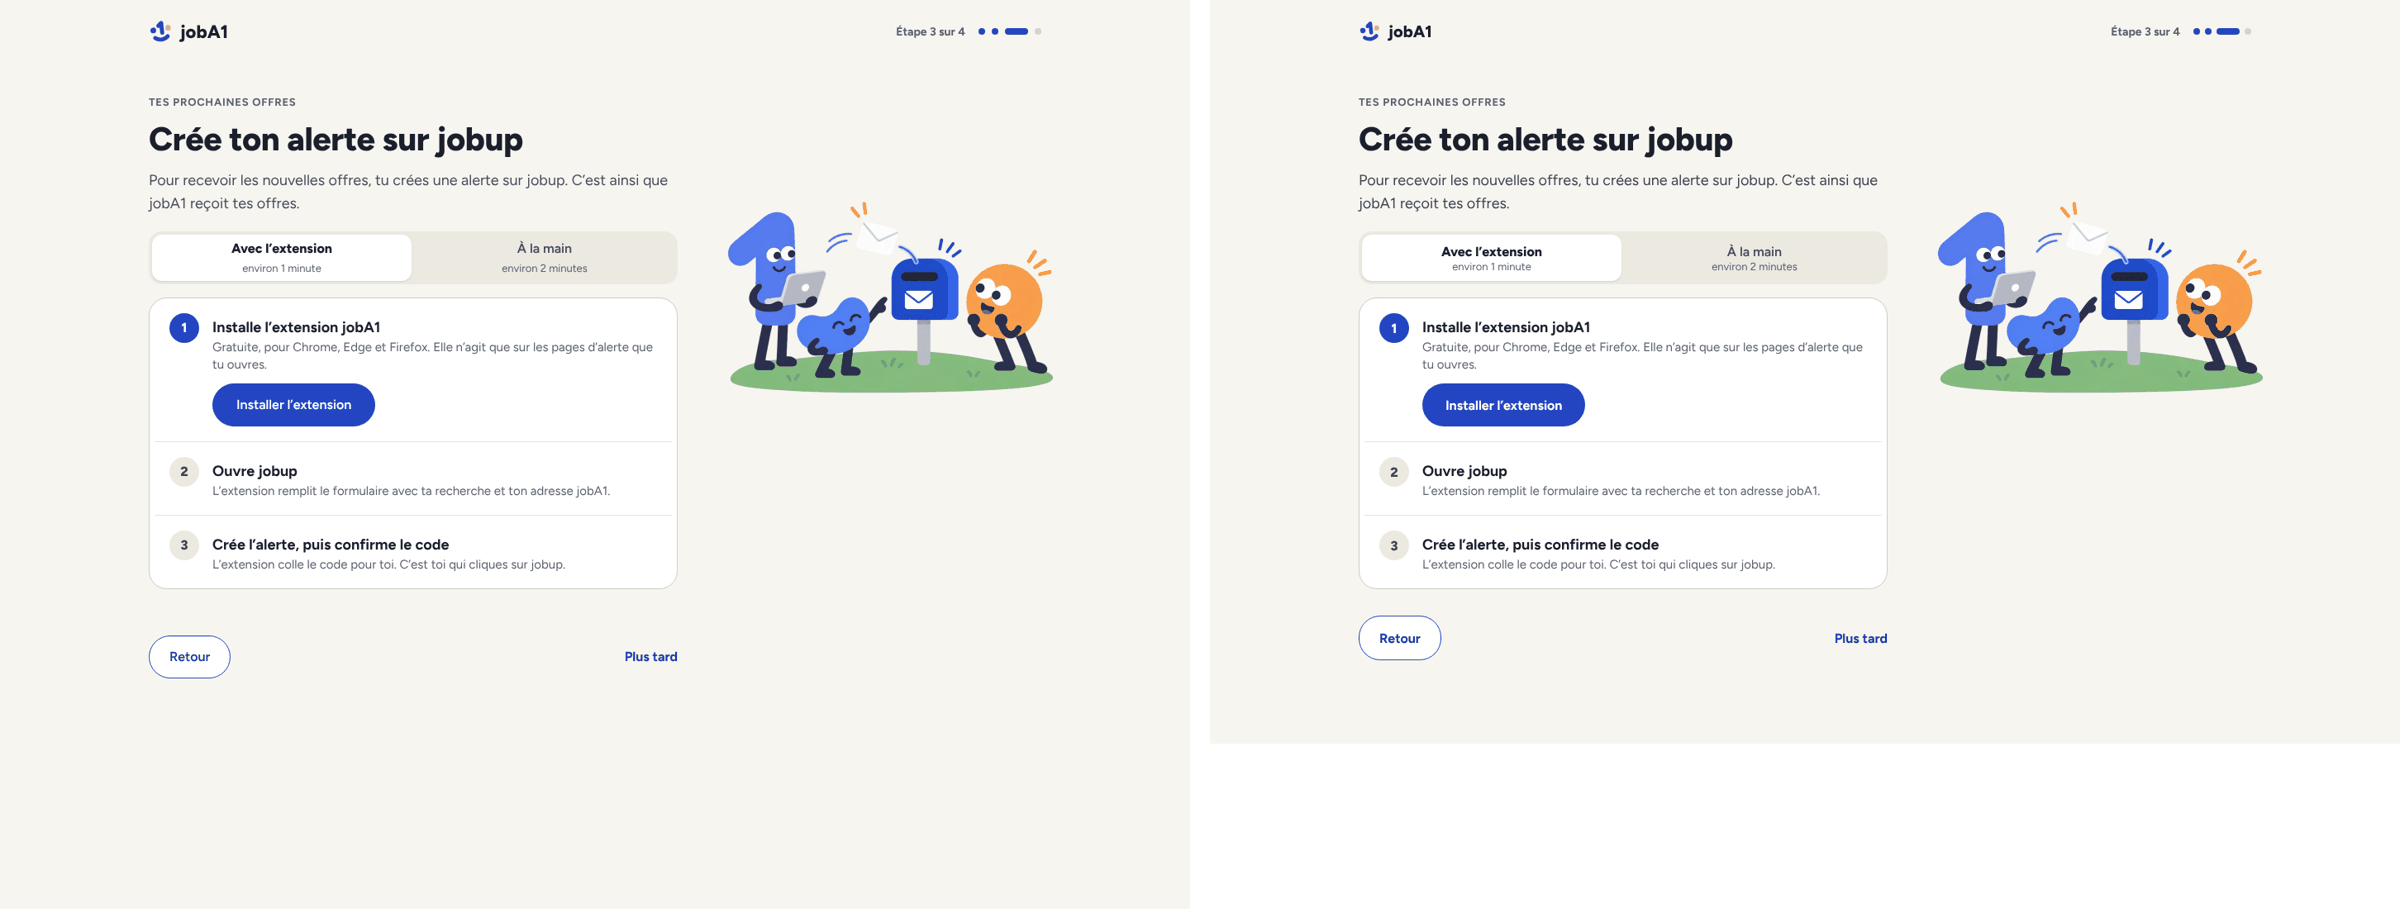
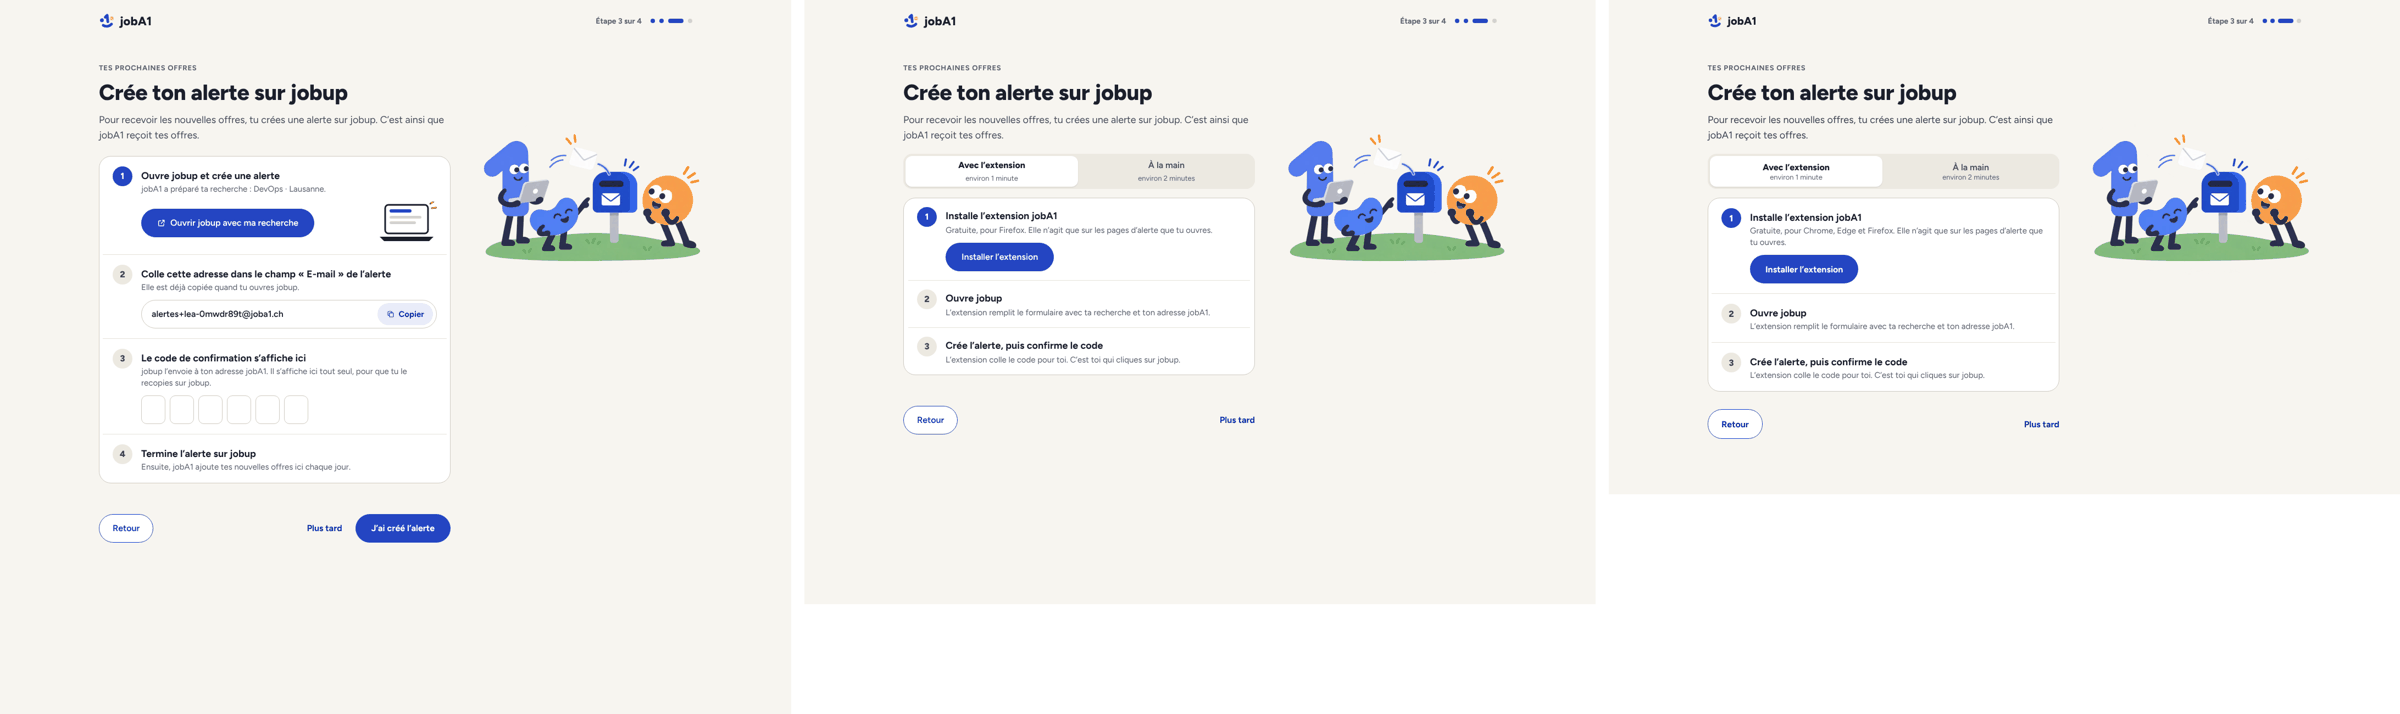
Premiers pas, étape 3 : le choix extension ou à la main seulement sur Firefox (Kevin, 16.11)
« Gratuite, pour Firefox. » ; ailleurs, le parcours à la main seul, sauf si l'extension est détectée.

Claude-Session: https://claude.ai/code/session_014TQZXHcJqs6Y5WLrepDCTo

diff --git a/frontend/src/views/WelcomeView.test.ts b/frontend/src/views/WelcomeView.test.ts
@@ -620,7 +620,17 @@ describe("premiers pas sur ordinateur (MODIFICATIONS_9 §5, OnboardingOrdinateur
     expect(wrapper.get("[data-test=welcome-eyebrow]").text()).toBe("Étape 2 sur 4");
   });
 
-  it("section 42 : « Avec l’extension / À la main », à la main par défaut sans extension ; chaque parcours garde son avancée", async () => {
+  it("section 42 : hors Firefox et sans extension, pas de choix, le parcours à la main seul (Kevin, 16.11, 23 h 29)", async () => {
+    const { wrapper } = await mountWelcome({ status: "pending", step: 3, goal: null, trade: null }, { offers: [OFFER] });
+    await click(wrapper, "welcome-criteria");
+    expect(wrapper.find("[data-test=welcome-alert-via]").exists()).toBe(false);
+    expect(wrapper.get("[data-test=welcome-alert]").isVisible()).toBe(true);
+    expect(wrapper.get("[data-test=welcome-alert-extension]").isVisible()).toBe(false);
+    expect(wrapper.find("[data-test=welcome-alert-done]").exists()).toBe(true);
+  });
+
+  it("section 42 : sur Firefox, « Avec l’extension / À la main », à la main par défaut sans extension ; chaque parcours garde son avancée", async () => {
+    const ua = vi.spyOn(navigator, "userAgent", "get").mockReturnValue("Mozilla/5.0 (X11; Linux x86_64; rv:133.0) Gecko/20100101 Firefox/133.0");
     const { wrapper } = await mountWelcome({ status: "pending", step: 3, goal: null, trade: null }, { offers: [OFFER] });
     await click(wrapper, "welcome-criteria");
     const group = wrapper.get("[data-test=welcome-alert-via]");
@@ -641,9 +651,10 @@ describe("premiers pas sur ordinateur (MODIFICATIONS_9 §5, OnboardingOrdinateur
     expect(wrapper.get("[data-test=welcome-alert-via-main]").attributes("aria-checked")).toBe("true");
     // Le parcours à la main a gardé son avancée : jobup ouvert, l'étape 3 en cours.
     expect(wrapper.get("[data-test=welcome-alert-step-3]").attributes("aria-current")).toBe("step");
+    ua.mockRestore();
   });
 
-  it("section 42 : l’extension détectée est choisie par défaut ; à « created », la page passe aux offres toute seule", async () => {
+  it("section 42 : l’extension détectée (quel que soit le navigateur) est choisie par défaut ; à « created », la page passe aux offres toute seule", async () => {
     document.documentElement.dataset.joba1Extension = "0.64.0";
     try {
       const { wrapper } = await mountWelcome({ status: "pending", step: 3, goal: null, trade: null }, { offers: [OFFER] });

diff --git a/frontend/src/views/WelcomeView.vue b/frontend/src/views/WelcomeView.vue
@@ -141,8 +141,12 @@ const VIAS = [
 ] as const;
 type Via = (typeof VIAS)[number]["key"];
 const chosenVia = ref<Via | null>(null);
+// L'extension n'existe que pour Firefox (Kevin, 16.11, 23 h 29) : le choix ne s'affiche que sur Firefox, ou partout si
+// l'extension est détectée ; sinon le parcours à la main seul, comme sur téléphone.
+const firefox = /firefox\//i.test(navigator.userAgent);
+const viaChoice = computed(() => firefox || !!extension.version.value);
 const via = computed<Via>({
-  get: () => chosenVia.value ?? (extension.version.value ? "extension" : "main"),
+  get: () => (viaChoice.value ? chosenVia.value ?? (extension.version.value ? "extension" : "main") : "main"),
   set: (value) => (chosenVia.value = value),
 });
 function onViaKey(event: KeyboardEvent): void {
@@ -853,9 +857,10 @@ async function finish(to: string): Promise<void> {
             <p class="wdk-lead">
               Pour recevoir les nouvelles offres, tu crées une alerte sur jobup. C’est ainsi que jobA1 reçoit tes offres.
             </p>
-            <!-- Section 42 du 16.11 : avec l'extension ou à la main, ordinateur seulement ; l'avancée de chaque parcours
-                 est gardée quand on change (les deux restent montés). -->
+            <!-- Section 42 du 16.11 : avec l'extension ou à la main, ordinateur seulement, sur Firefox ou extension détectée ;
+                 l'avancée de chaque parcours est gardée quand on change (les deux restent montés). -->
             <div
+              v-if="viaChoice"
               class="wdk-via"
               role="radiogroup"
               aria-label="Comment créer l’alerte"

diff --git a/frontend/src/components/WelcomeAlertExtension.vue b/frontend/src/components/WelcomeAlertExtension.vue
@@ -59,7 +59,7 @@ const track = computed(() =>
       <div class="wa-body">
         <template v-if="!installed && i === 0">
           <b class="wa-title">Installe l’extension jobA1</b>
-          <span class="wa-help">Gratuite, pour Chrome, Edge et Firefox. Elle n’agit que sur les pages d’alerte que tu ouvres.</span>
+          <span class="wa-help">Gratuite, pour Firefox. Elle n’agit que sur les pages d’alerte que tu ouvres.</span>
           <div class="wa-open-row">
             <a
               :href="STORE_URL"

diff --git a/docs/decisions/2026-11-16-2130-extension-contrat-page.md b/docs/decisions/2026-11-16-2130-extension-contrat-page.md
@@ -25,4 +25,6 @@ choix « Avec l'extension · environ 1 minute » / « À la main · environ 2 mi
 
 Le suivi en direct affiche : Formulaire rempli, Alerte envoyée à jobup, Code collé dans jobup, En attente de ta
 confirmation sur jobup. Changer d'option garde l'avancée de chaque parcours. Téléphone : pas de choix, parcours à la
-main seul. Les règles de l'extension elle-même sont dans `2026-11-16-2125-extension-alerte-jobup.md`.
+main seul. Ordinateur (Kevin, 16.11, 23 h 29) : l'extension n'existe que pour Firefox, donc le choix ne s'affiche que sur
+Firefox, ou sur tout navigateur où l'extension est détectée ; ailleurs, parcours à la main seul. Texte : « Gratuite,
+pour Firefox. ». Les règles de l'extension elle-même sont dans `2026-11-16-2125-extension-alerte-jobup.md`.
